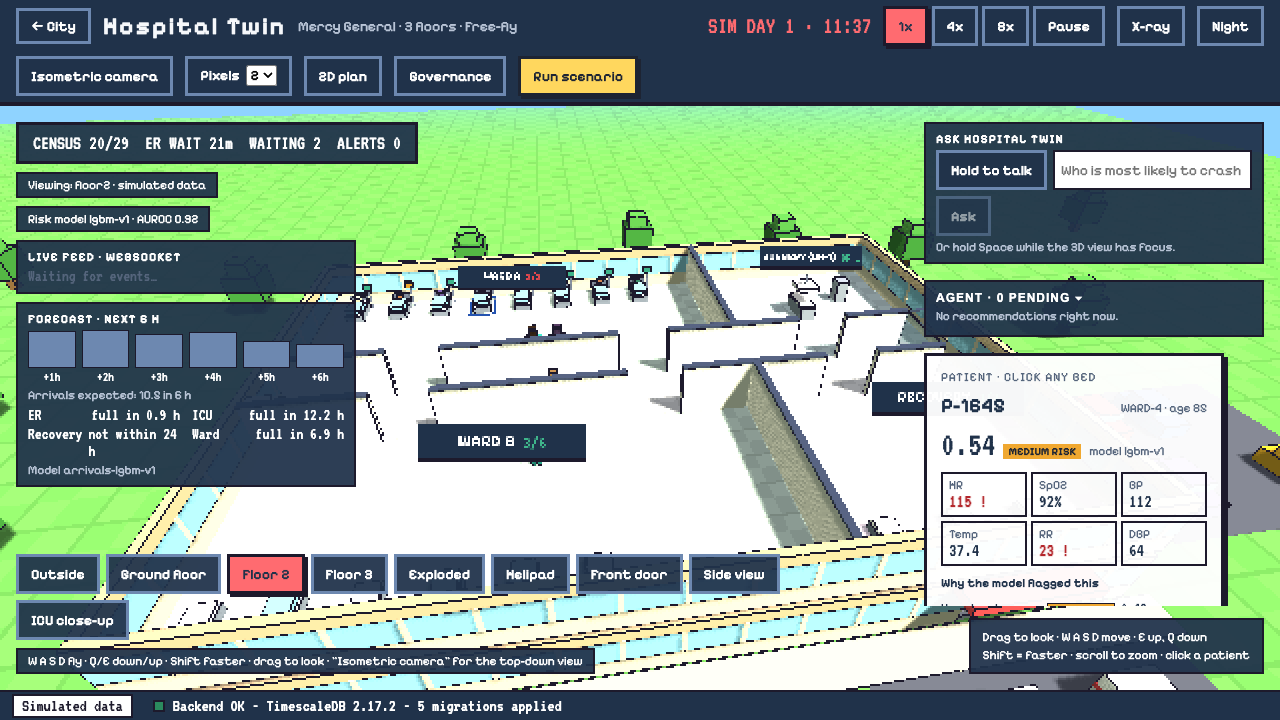
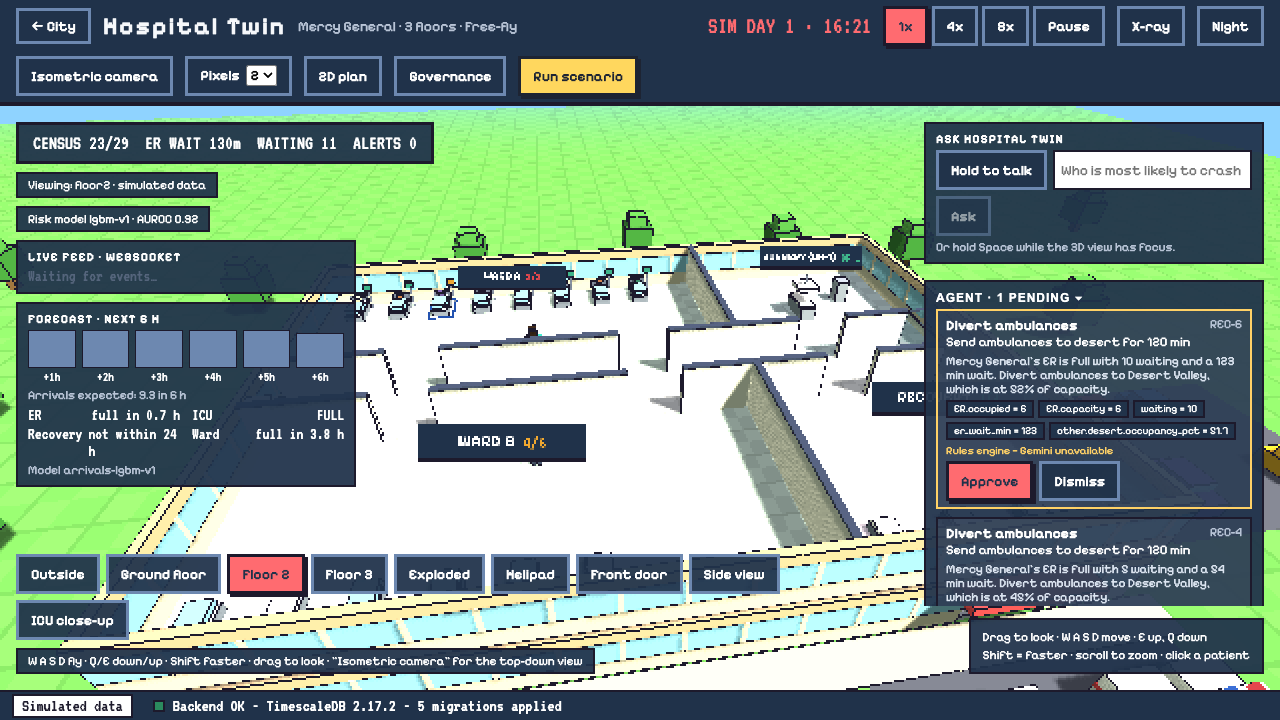
Evidence: screenshots of the deployed site

diff --git a/CHECKPOINTS.md b/CHECKPOINTS.md
@@ -561,3 +561,14 @@ Built and checked locally; the parts that need your accounts are not done yet.
   `make record` (Playwright performs the demo and saves `docs/demo.webm`; recorded once, 1.8 min, 30 MB so it is
   gitignored), README with screenshots, commands, architecture and the four prize-track sections, team.
   **Not done:** a clean-clone `make verify` and `make e2e`, and final evidence once deployed.
+
+### Deployed (CP8 and CP9 close-out)
+
+- Live at https://hospital-twin.us (Vultr VM, Caddy HTTPS, Tiger Cloud database with 3,000 Synthea patients); `www`
+  redirects to the main address. `make deploy` smoke check: health, page and a WebSocket snapshot all pass.
+- Gemini works on the live site for both the agent and Ask (a list of models in `GEMINI_MODEL`, tried in order, with
+  the rules engine and the intent parser as labelled fallbacks).
+- The 3D view opens in free-fly (W A S D fly through the building); the Isometric camera button gives the top-down view.
+- CI is green on a clean runner: verify, `make seed` (3,000 patients), `make train`, and 29 end-to-end tests.
+- Evidence of the live site: `docs/evidence/cp8/live-*.png` (made by `frontend/record/live-screenshots.mjs`).
+- Not done: a clean-clone run on this machine (CI covers it), and `docs/demo.webm` is kept out of git (30 MB).
